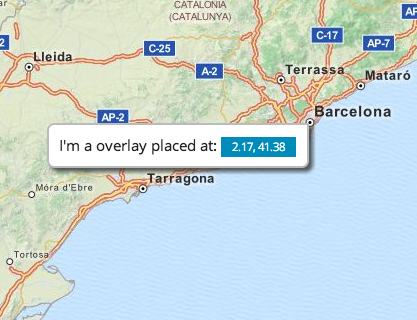
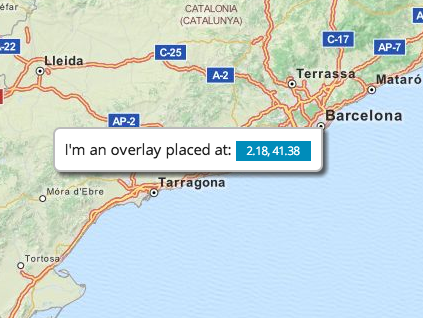
Improved sample

Changed region(s): [[0.0, 0.0, 1.0, 1.0], [0.1247, 0.0, 0.2494, 0.0566], [0.3118, 0.2547, 0.3741, 0.3113]]

diff --git a/app_tpl/chapter06_basic_overlay.html b/app_tpl/chapter06_basic_overlay.html
@@ -29,10 +29,6 @@
 
             <p>Demonstrates how to create a basic overlay from a HTML element. Click on the map to show/move the overlay that shows the clicked coordinates.</p>
 
-            <div id="myOverlay" class="overlay">
-                I'm a overlay placed at: <span id="coordinate" class="label label-primary">0, 0</span>
-            </div> 
-
             <input id="stopEvent" type="checkbox" checked> stopEvent <input id="insertFirst" type="checkbox"> insertFirst
             <div id="map" class="map"></div>
 
@@ -50,11 +46,20 @@
         <script id="code">
             function createOverlay(stopEvent, insertFirst) {
                 return new ol.Overlay({
-                    element: document.getElementById('myOverlay'),
+                    element: $('<div id="myOverlay" class="overlay">I\'m an overlay placed at: <span id="coordinate" class="label label-primary">0, 0</span></div> '),
                     positioning: 'top-right',
                     stopEvent: stopEvent,
                     insertFirst: insertFirst
                 });
+            }
+
+            function setCoordinateAndShow(coordinate) {
+                // Set position
+                overlay.setPosition(coordinate);
+                // Update overlay label
+                $('#coordinate').text(ol.coordinate.toStringXY(ol.proj.transform(coordinate, 'EPSG:3857', 'EPSG:4326'), 2));
+                // Show overlay
+                $(overlay.getElement()).show(); 
             }
 
             var map = new ol.Map({
@@ -78,10 +83,7 @@
 
             map.on('click', function(event) {
                 var coordinate = event.coordinate;
-                $('#coordinate').text(ol.coordinate.toStringXY(ol.proj.transform(coordinate, 'EPSG:3857', 'EPSG:4326'), 2));
-
-                overlay.setPosition(coordinate);
-                $(overlay.getElement()).show(); 
+                setCoordinateAndShow(coordinate);
             });
 
             $('#stopEvent, #insertFirst').on('click', function(){
@@ -89,12 +91,11 @@
                 var insertFirst = $('#insertFirst').is(':checked');
 
                 var prevPos = overlay.getPosition();
-                map.removeOverlay();
+                map.removeOverlay(overlay);
                 overlay = createOverlay(stopEvent, insertFirst);
-                overlay.setPosition(prevPos);
                 map.addOverlay(overlay);
 
-                $(overlay.getElement()).show(); 
+                setCoordinateAndShow(prevPos);
             });
 
         </script>
